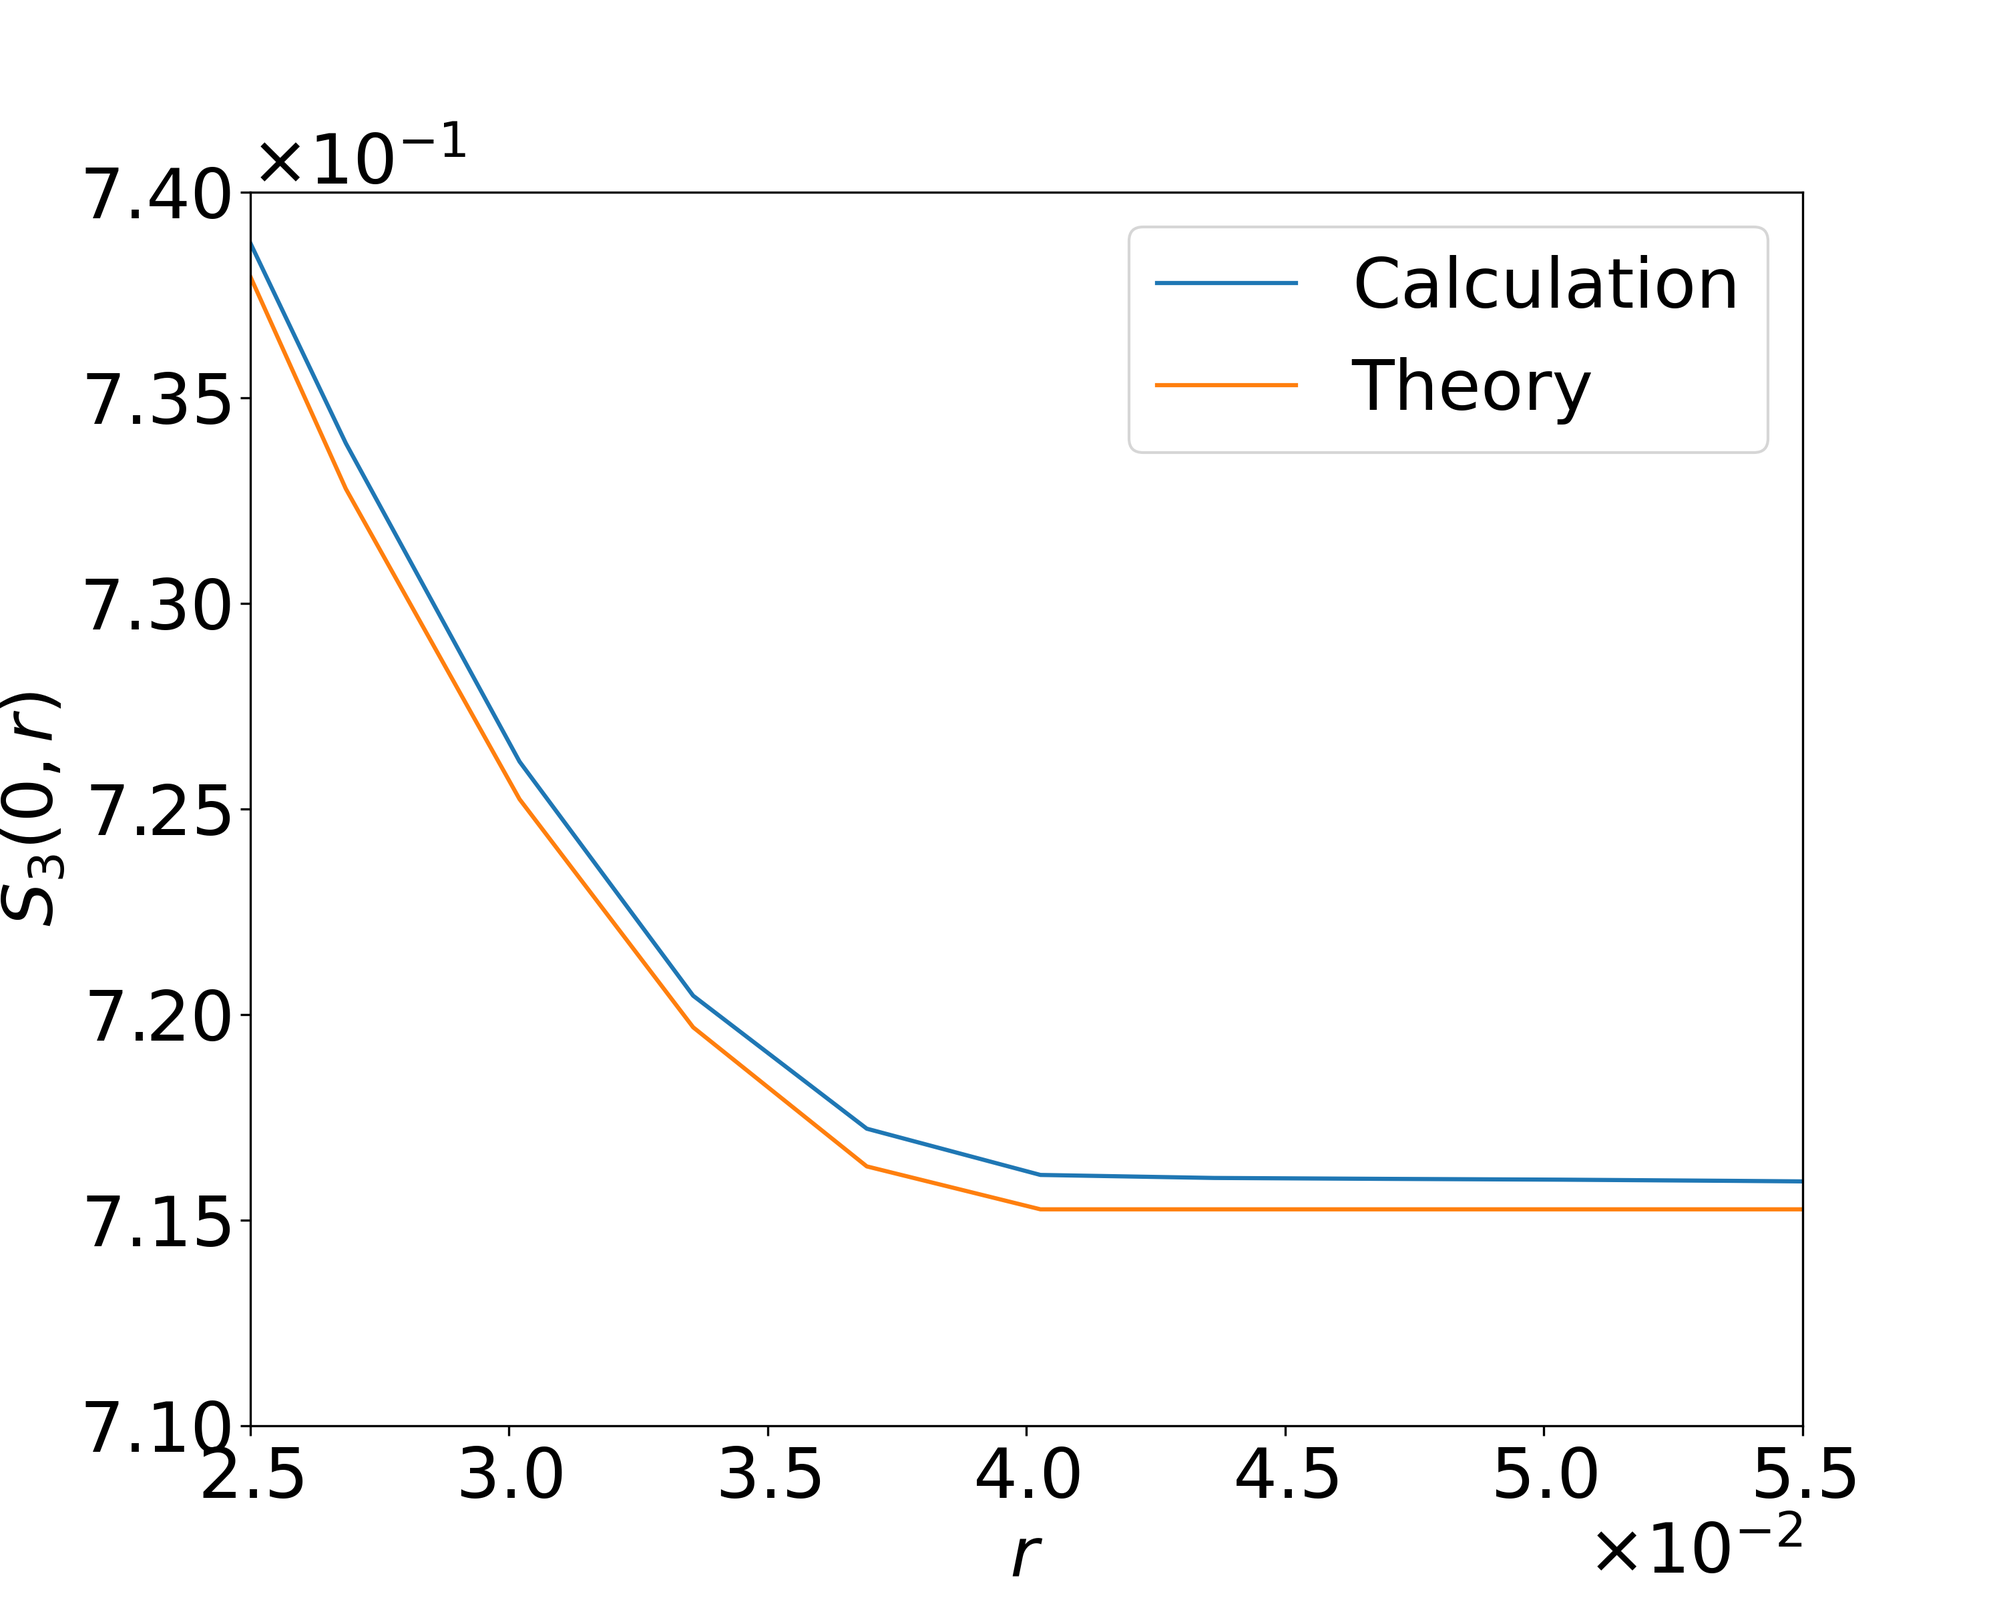
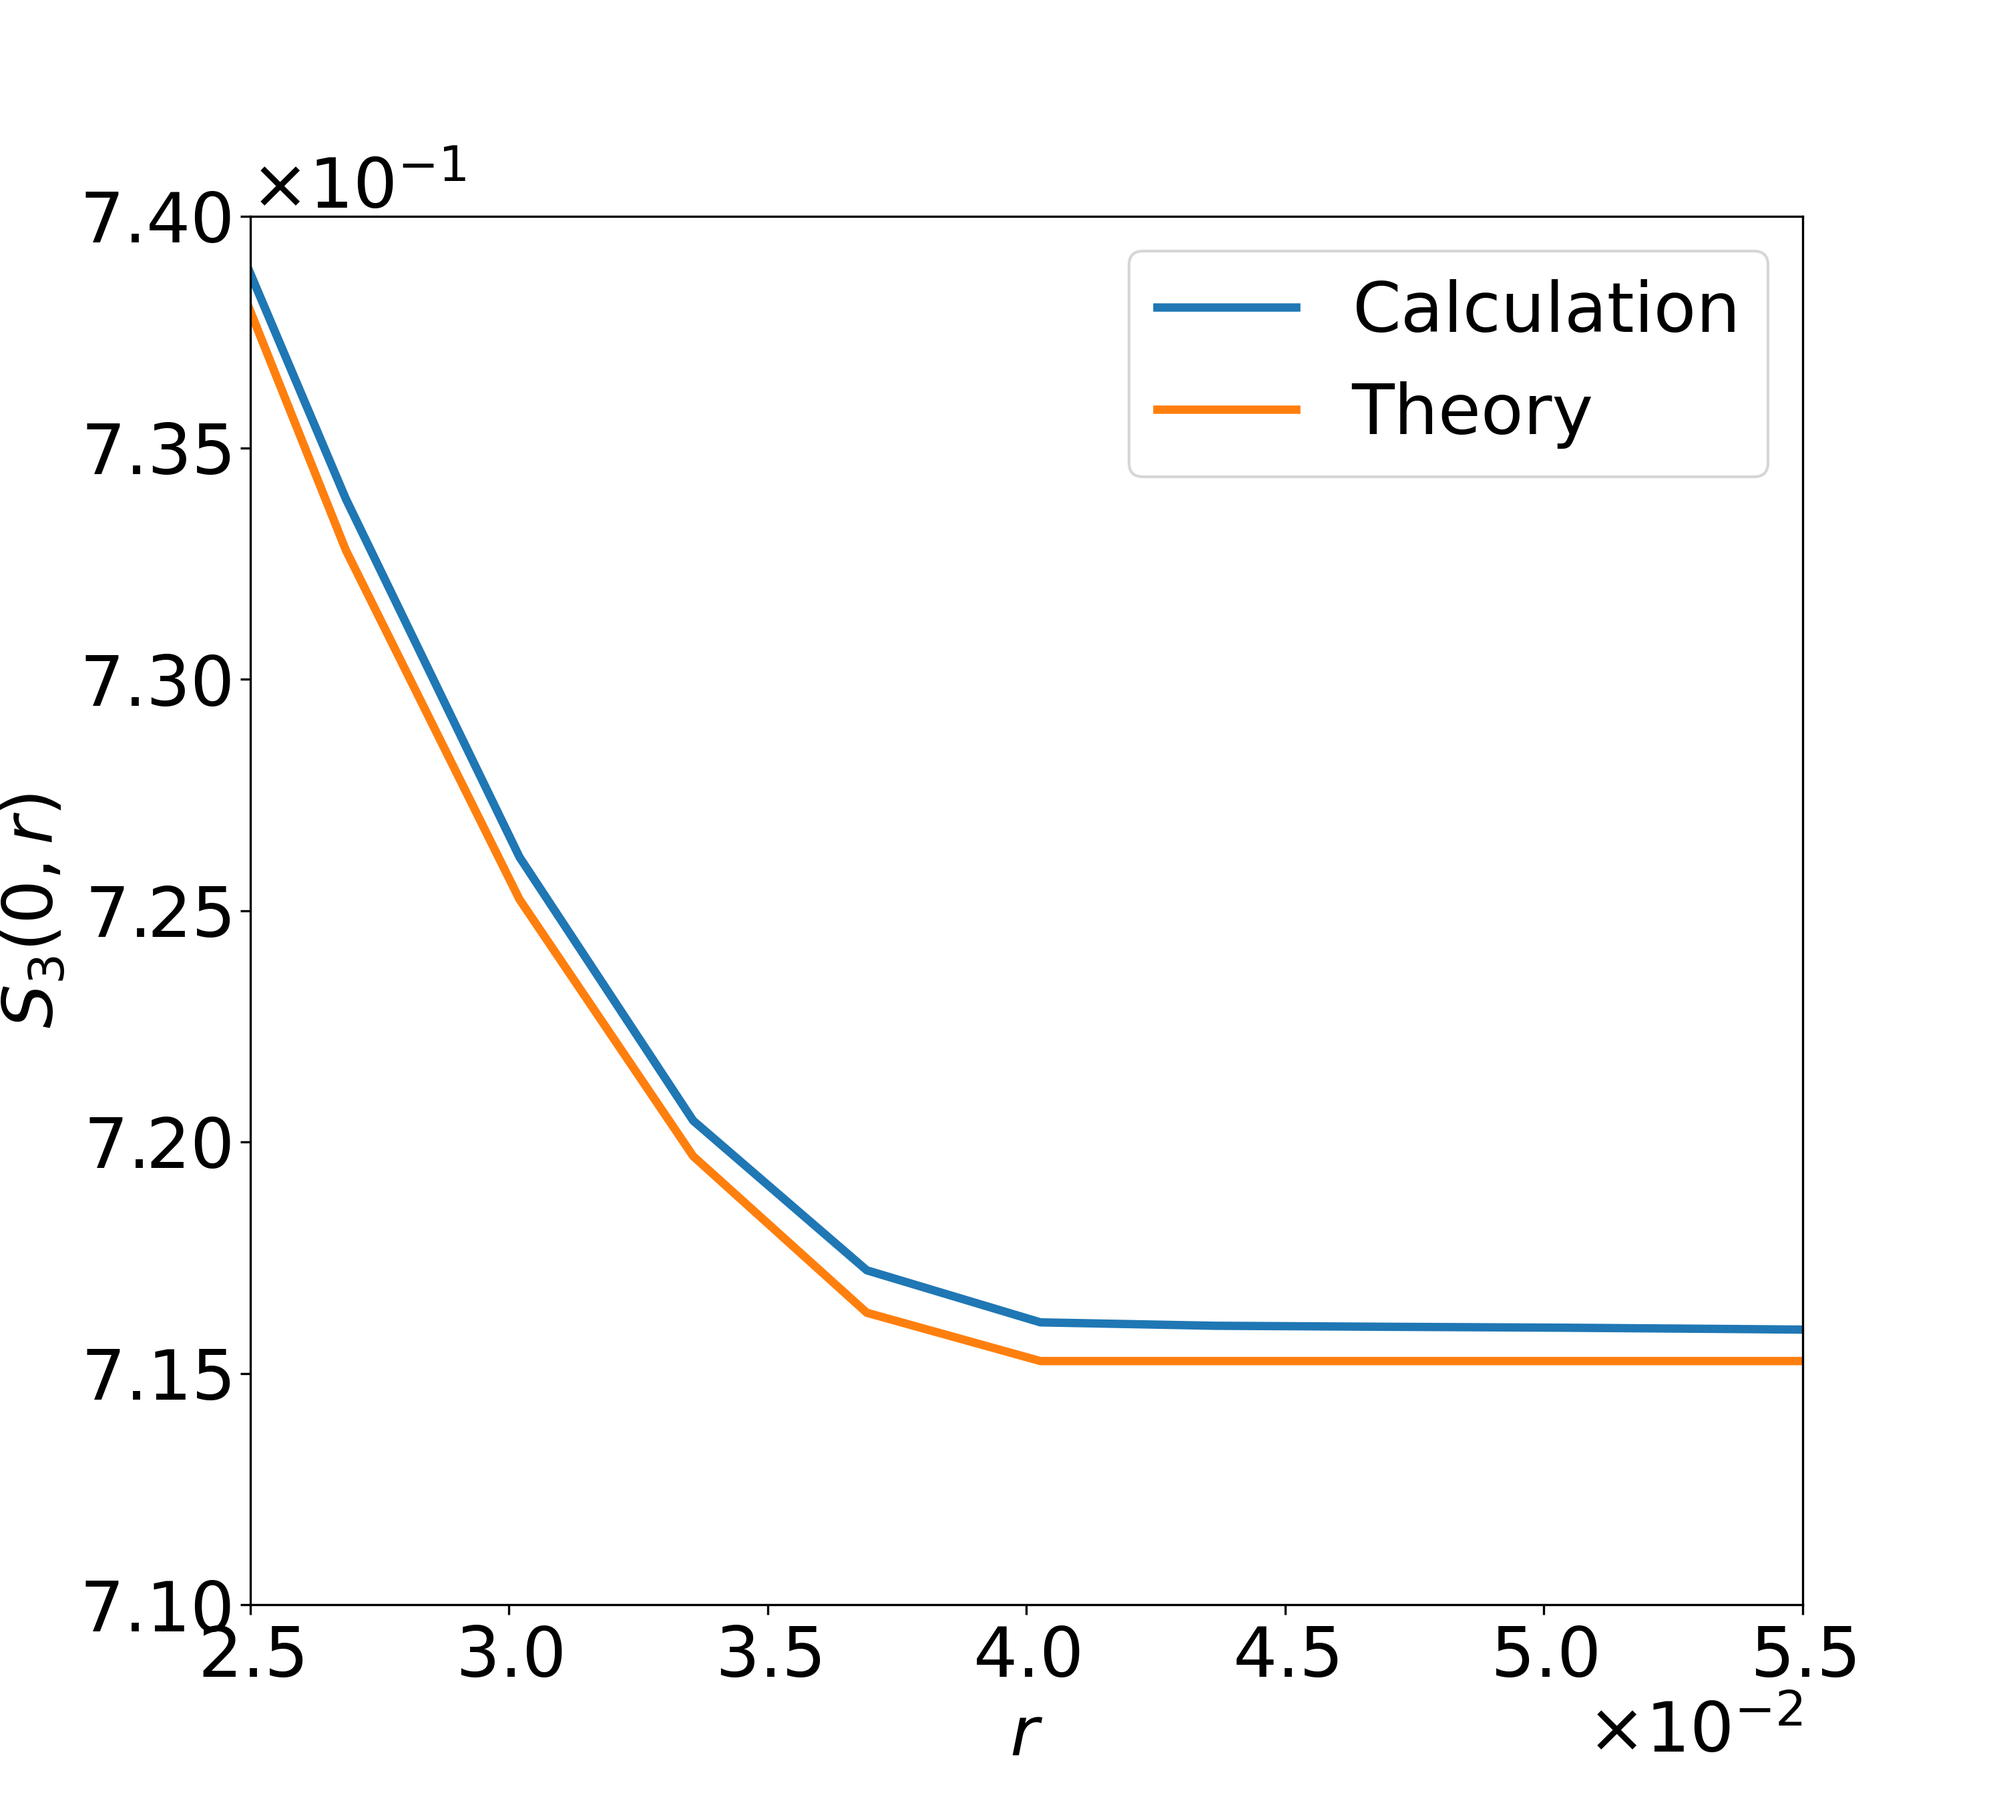
Line thickness (1/N)

diff --git a/data/plot-s2.py b/data/plot-s2.py
@@ -31,10 +31,10 @@ xs = np.linspace(0, 0.5, s2.size)
 #plt.ylim([0.71, 0.73])
 #plt.savefig('../images/balls-s3-zoom.png')
 
-plt.figure(figsize = (10, 8), dpi = 300)
+plt.figure(figsize = (10, 9), dpi = 300)
 plt.rc('font', size = 25)
-plt.plot(xs, s2)
-plt.plot(xs, s2_th(xs, 5000, 0.02))
+plt.plot(xs, s2, linewidth = 3)
+plt.plot(xs, s2_th(xs, 5000, 0.02), linewidth = 3)
 plt.ticklabel_format(axis = "y", scilimits = (0, 0), useMathText = True)
 plt.ticklabel_format(axis = "x", scilimits = (0, 0), useMathText = True)
 plt.xlim([0.025, 0.055])
